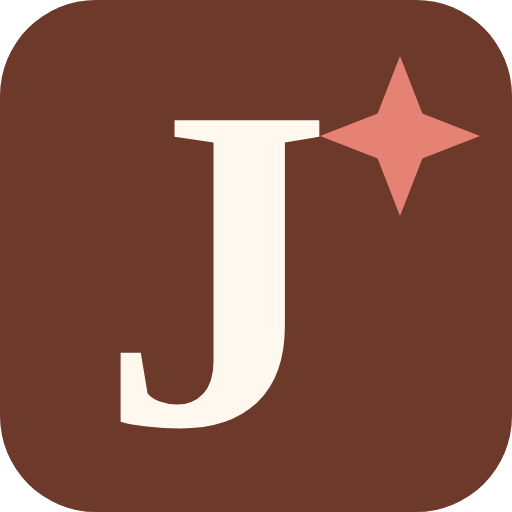
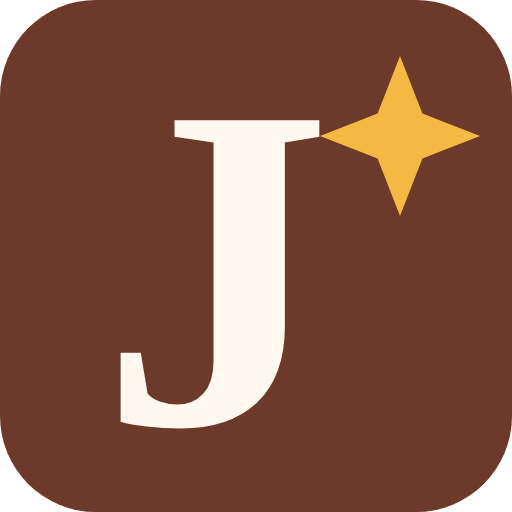
Marigold accent instead of salmon

Changed region(s): [[0.625, 0.125, 0.9375, 0.4062]]

diff --git a/style.css b/style.css
@@ -30,9 +30,9 @@
     --page: #241414;
     --ink: #efe3d6;
     --muted: #bba796;
-    --link: #e68274;
+    --link: #f4b942;
     --visited: #b4c39a;
-    --hover: #f6b8ae;
+    --hover: #f9d68a;
     --box-edge: #44535a;
     --box-fill: #273033;
     --tag-fill: #471908;
@@ -47,9 +47,9 @@
   --page: #241414;
   --ink: #efe3d6;
   --muted: #bba796;
-  --link: #e68274;
+  --link: #f4b942;
   --visited: #b4c39a;
-  --hover: #f6b8ae;
+  --hover: #f9d68a;
   --box-edge: #44535a;
   --box-fill: #273033;
   --tag-fill: #471908;
@@ -253,7 +253,7 @@ footer {
   padding: 14px;
 }
 footer a, footer a:visited { color: var(--header-text); }
-footer a:hover, footer a:focus { color: #e68274; }
+footer a:hover, footer a:focus { color: #f4b942; }
 
 @media (max-width: 600px) {
   header { padding: 12px 16px; }
